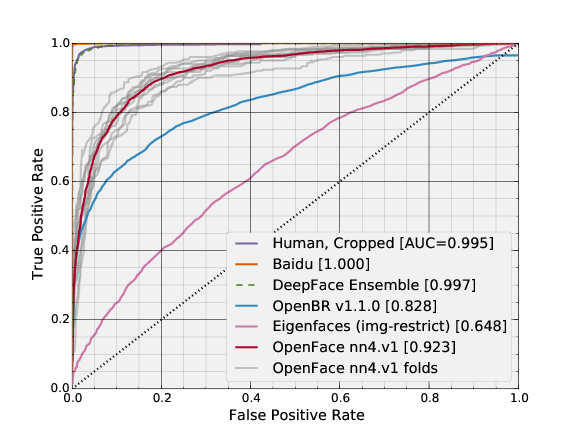
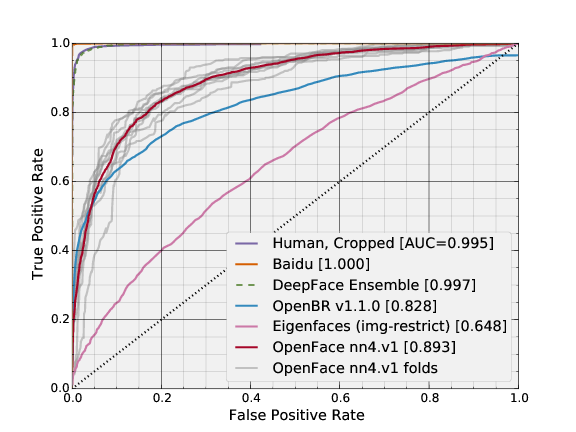
Update LFW results with changes from #50.

Changed region(s): [[0.125, 0.0903, 0.875, 0.8426], [0.7188, 0.7824, 0.7812, 0.8125]]

diff --git a/docs/accuracy.md b/docs/accuracy.md
@@ -5,8 +5,8 @@ on the standard
 [LFW](http://vis-www.cs.umass.edu/lfw/results.html)
 benchmark.
 We had to fallback to using the deep funneled versions for
-152 of 13233 images because dlib failed to detect a face or landmarks.
-We obtain a mean accuracy of 0.8483 &plusmn; 0.0172 with an AUC of 0.923.
+58 of 13233 images because dlib failed to detect a face or landmarks.
+We obtain a mean accuracy of 0.8138 &plusmn; 0.0149 with an AUC of 0.893.
 For comparison, training with Google-scale data results in an
 accuracy of .9963 &plusmn; 0.009.
 
